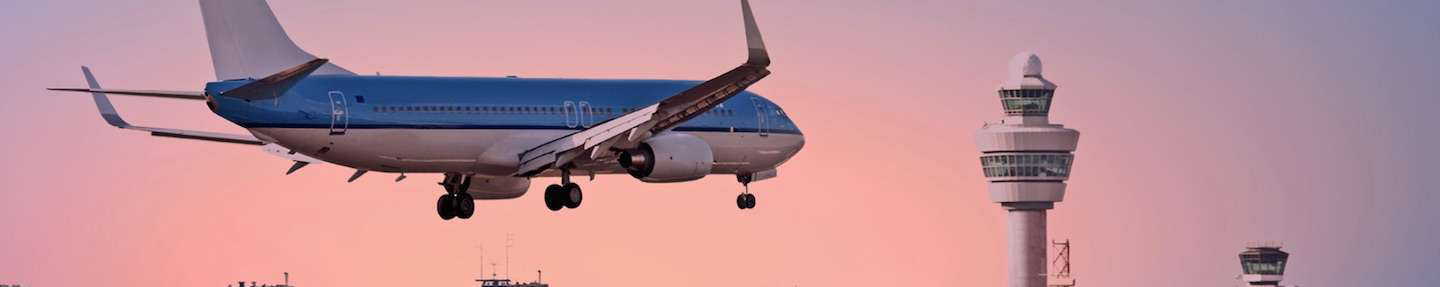
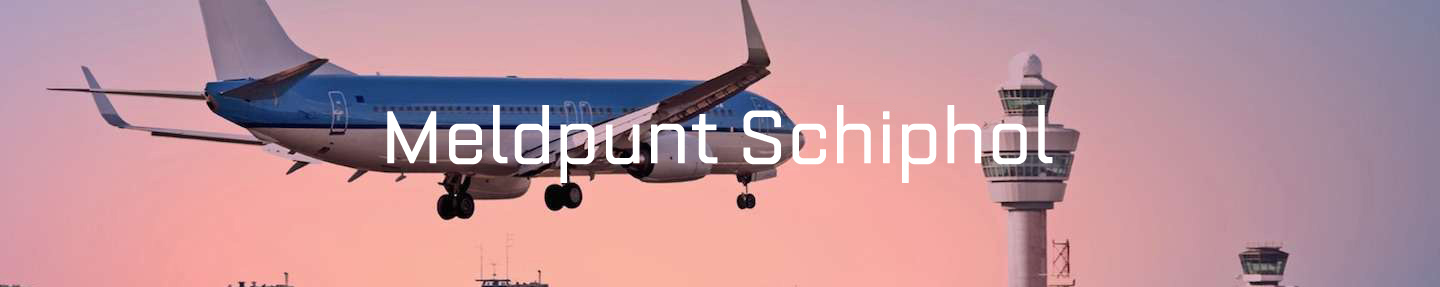
sad

Changed region(s): [[0.25, 0.3624, 0.75, 0.6411]]

diff --git a/Sprint_4/Schiphol/index.html b/Sprint_4/Schiphol/index.html
@@ -15,10 +15,9 @@
   </head>
   <body>
     <!--Zoom effect-->
-    <div class="view overlay zoom">
-        <h1>Meldpunt Schiphol</h1>
-        <img src="img/header-schiphol.jpg" class="img-fluid" alt="zoom">
-        <div class="mask flex-center waves-effect waves-light">
+    <div class="view overlay">
+        <img src="img/header-schiphol.jpg" class="img-fluid" alt="zoom" width="100%">
+        <div class="mask flex-center waves-effect waves-light rgba-blue-light">
         </div>
     </div>
     <div class="">
